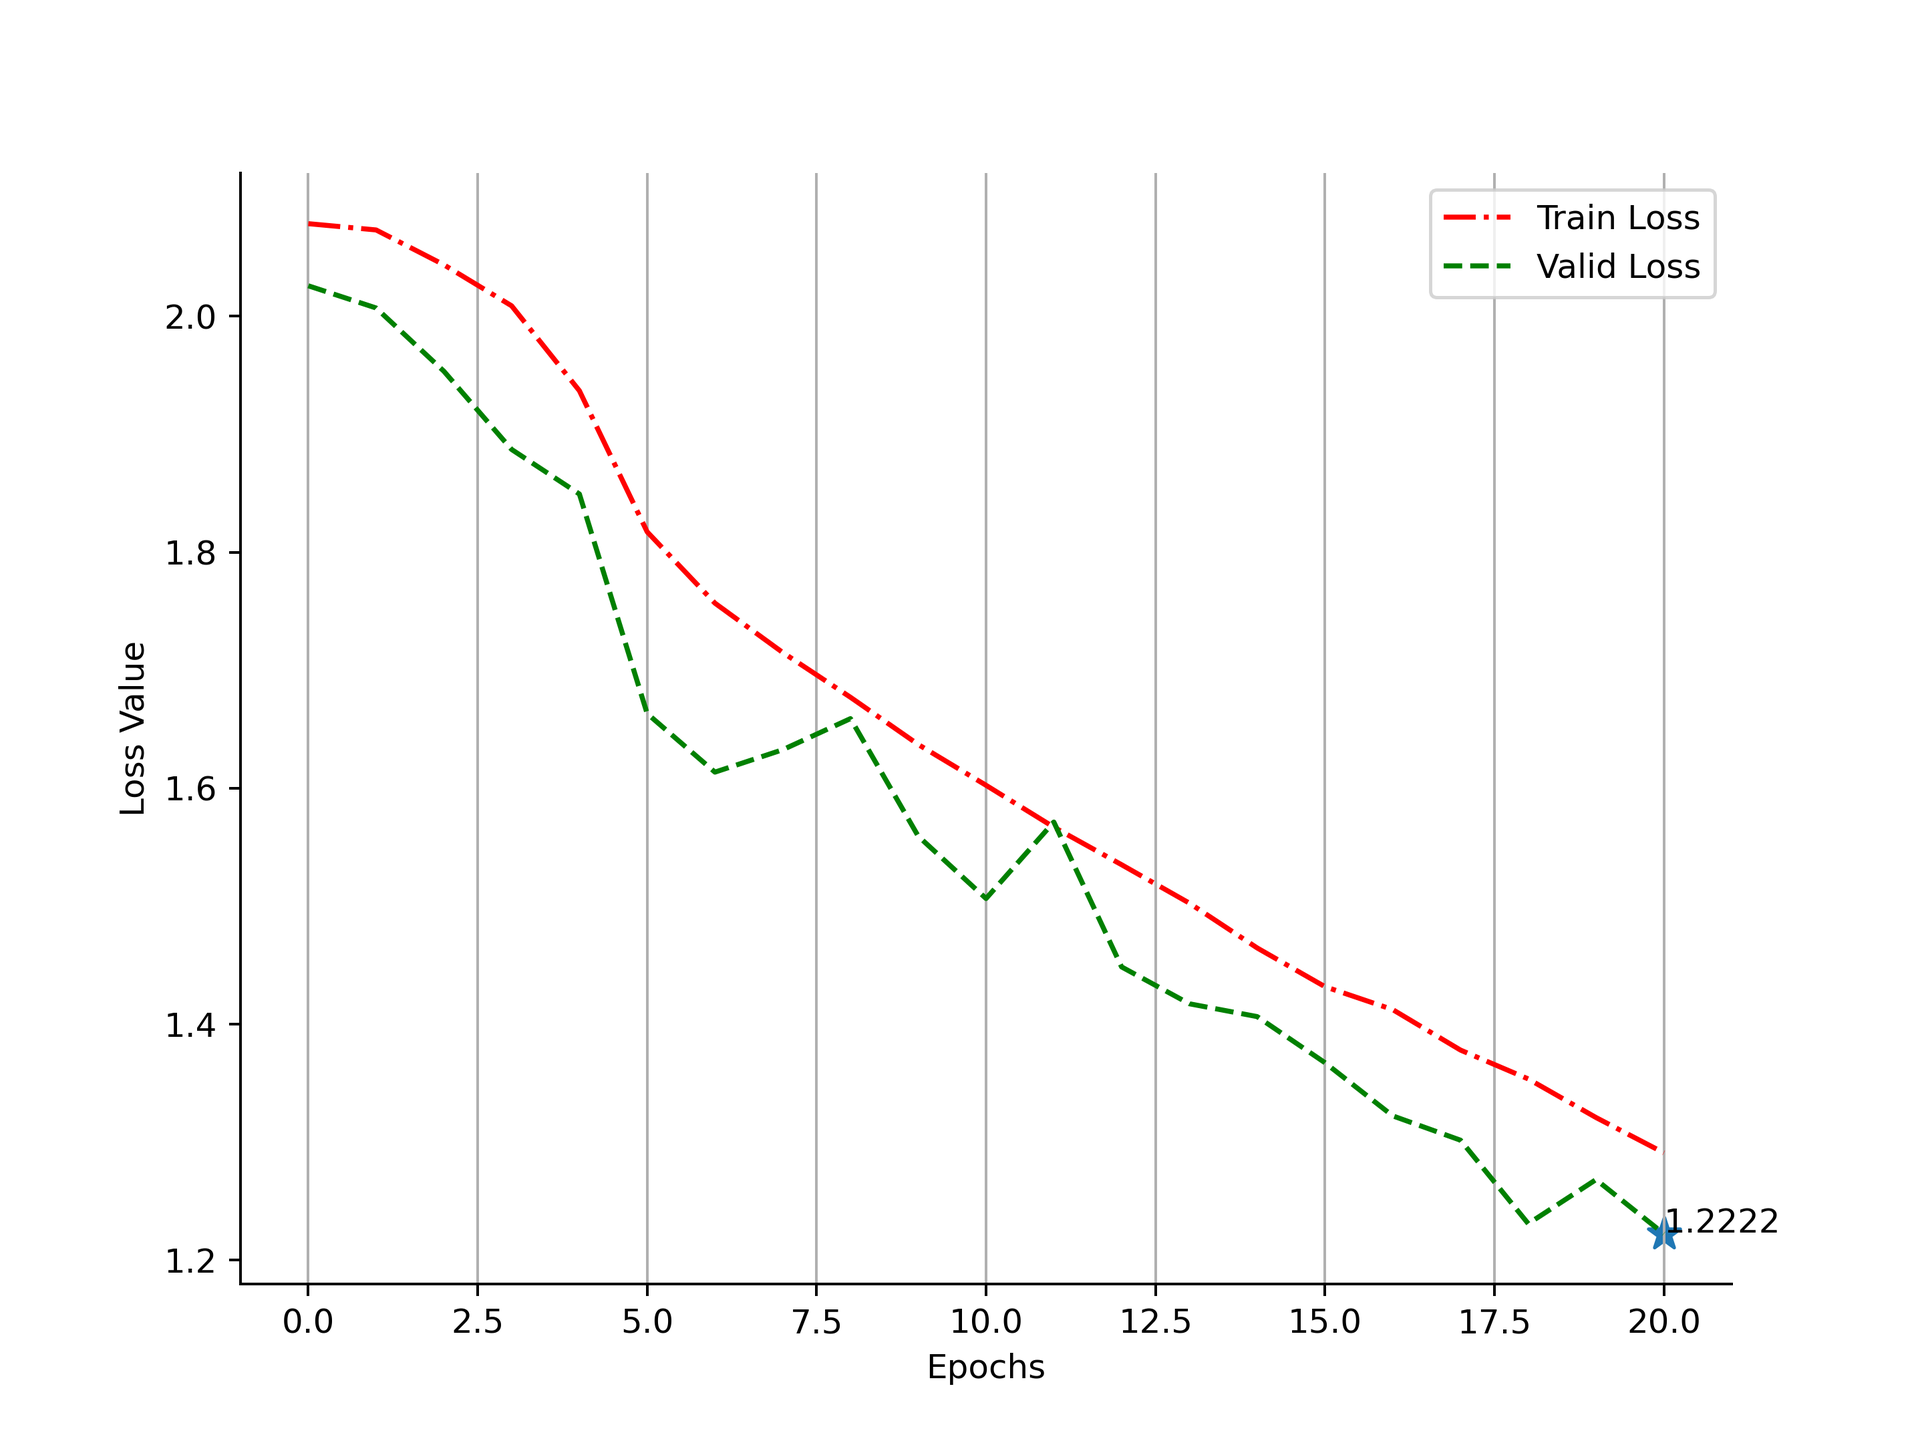
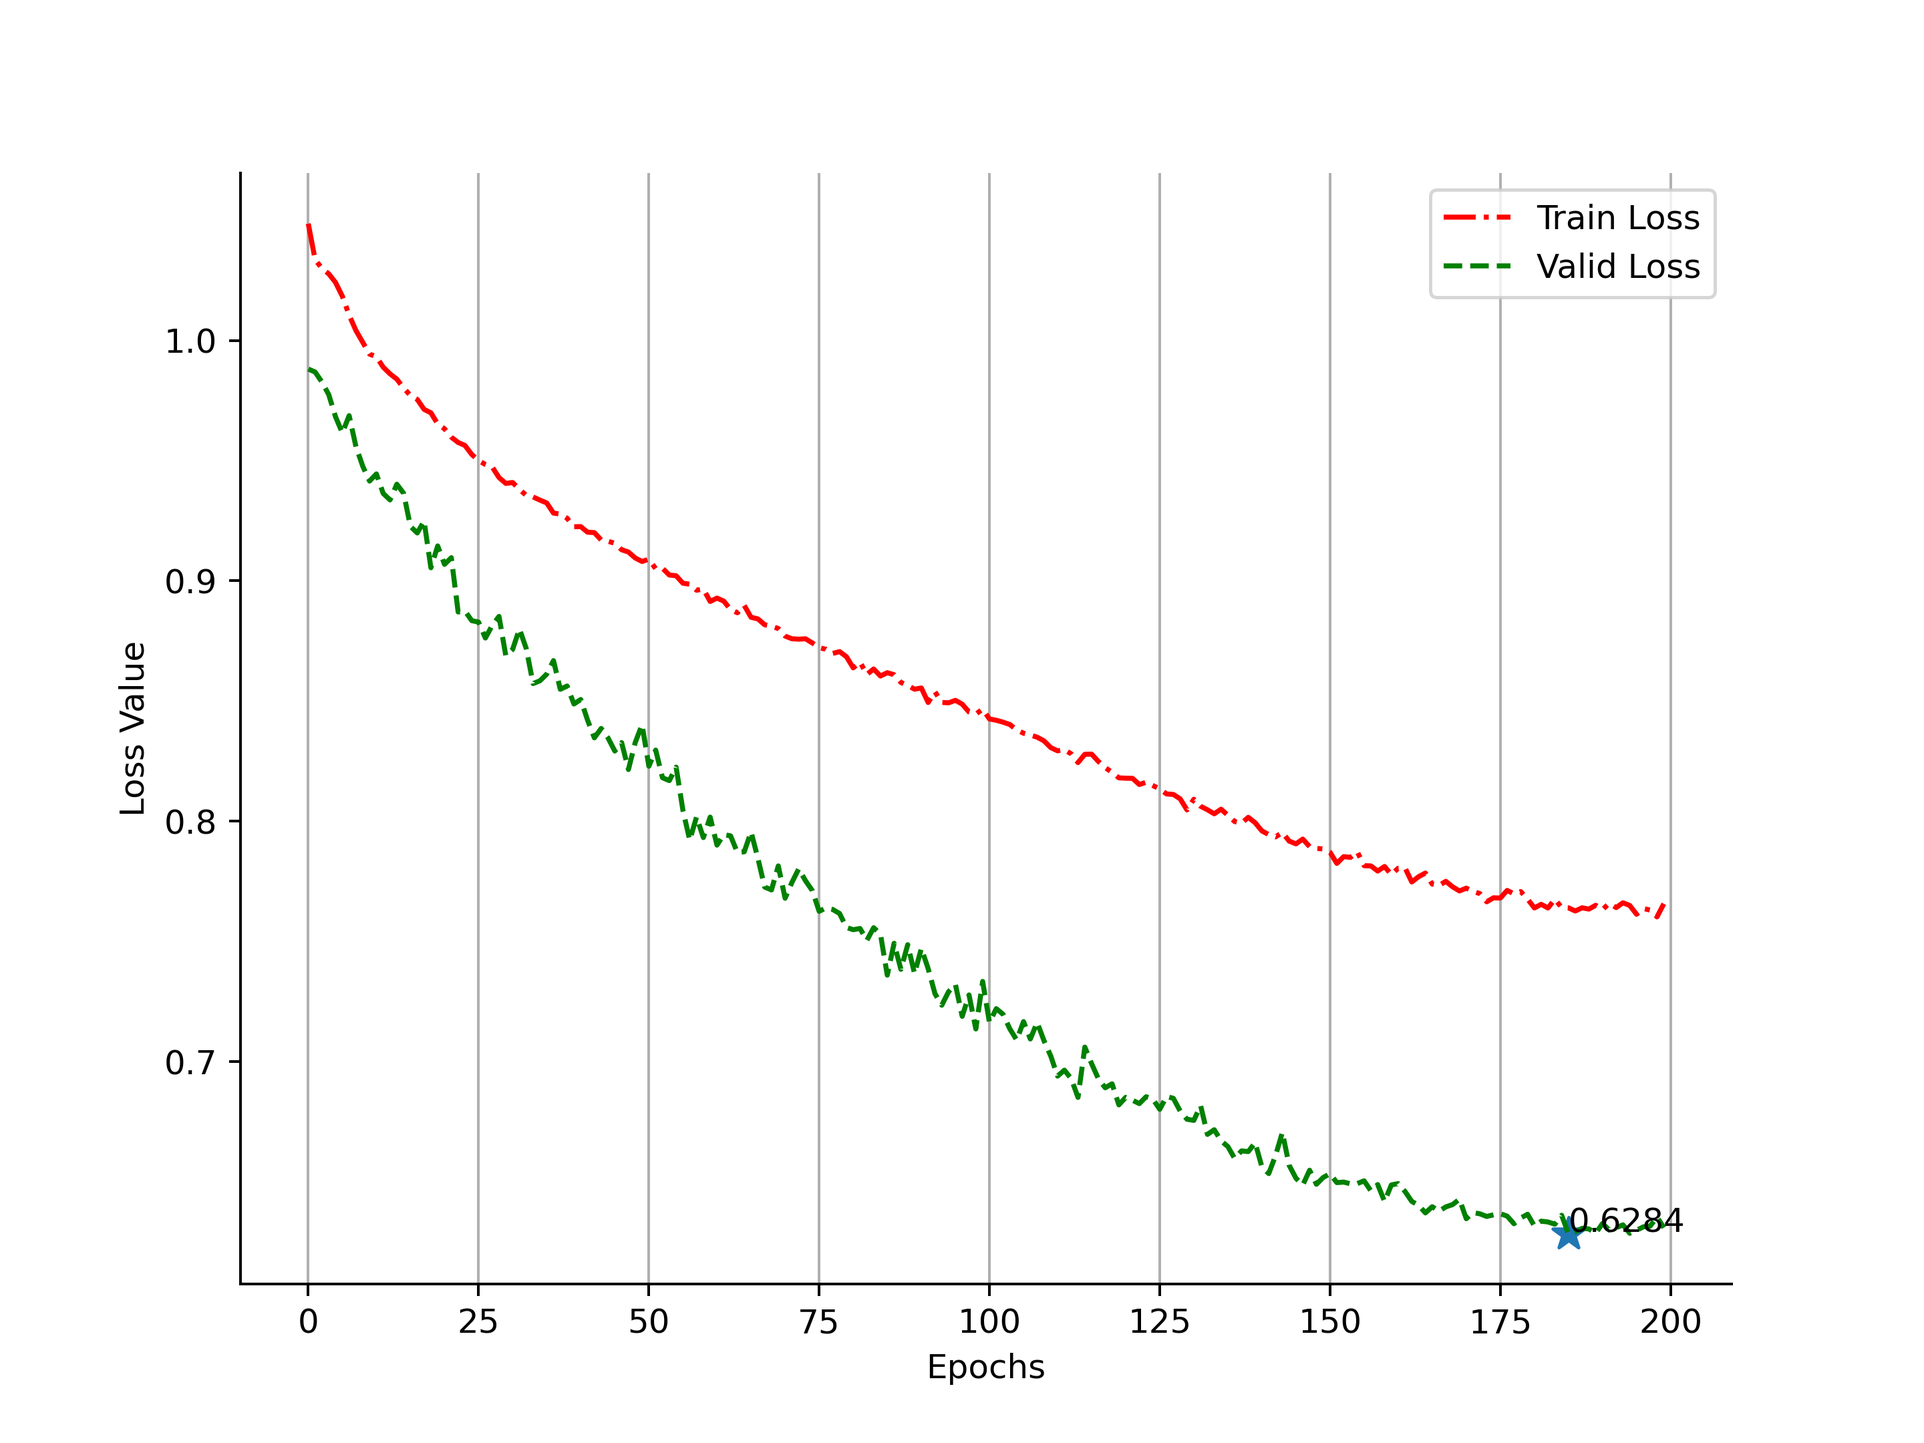
modified:   Figure/Unet_loss.png 	modified:   README.md 	modified:   src/data.py 	modified:   src/loss.py 	modified:   src/trainer.py 	modified:   src/unet.py 	modified:   train.py

diff --git a/src/trainer.py b/src/trainer.py
@@ -4,7 +4,7 @@ from tqdm import tqdm
 
 class Trainer():
     def __init__(self, model, trainloader, validloader, criterion, optimizer, lr_scheduler = None,
-                 num_epoch = 20, early_stop = 10, tolerance = 0.005, num_classes = 21, ignore_index = 255,
+                 num_epoch = 20, early_stop = 10, tolerance = 0.005, num_classes = 21,
                  device = None, on_amp = False):
         
         self.model = model.to(device)
@@ -17,7 +17,6 @@ class Trainer():
         self.early_stop = early_stop
         self.tolerance = tolerance
         self.num_classes = num_classes
-        self.ignore_index = ignore_index
         
         self.device = device
         self.on_amp = on_amp
@@ -26,14 +25,12 @@ class Trainer():
 
         self.best_loss = np.inf
         self.best_miou = 0.0
-        self.state = {"tra_loss": [], "val_loss":[], "lr": [], 
+        self.state = {"tra_loss": [], "val_loss":[], 
                       "miou": [], "class_iou": []}
 
-    
     def _epoch(self, x, y, istraining = True):
-        if self.on_amp:
-            device_type = str(self.device).split(':')[0]
-            with torch.autocast(device_type=device_type, dtype=torch.float16):
+        if self.on_amp and self.device.type == "cuda":
+            with torch.autocast(device_type="cuda", dtype=torch.float16):
                 pred = self.model(x)
                 loss = self.criterion(pred, y)
         else:
@@ -80,8 +77,7 @@ class Trainer():
                 y = y.to(self.device)
                 loss, preds = self._epoch(x, y, False)
                 running_loss += loss.item()
-                conf_mat += self.calc_conf_mat(preds, y, self.ignore_index)
-
+                conf_mat += self.calc_conf_mat(preds, y)
                 pbar.set_postfix(loss = f"{loss.item():.4f}")
             miou, class_iou = self.calc_miou(conf_mat)
             return running_loss/len(self.validloader), miou, class_iou
@@ -93,28 +89,29 @@ class Trainer():
             tra_loss = self.train()
             val_loss, miou, class_iou = self.eval()
 
-            print(f"Train loss: {tra_loss}, Valid loss: {val_loss}") 
+            print(f"Class_iou: {class_iou}")
+
+            print(f"Train loss: {tra_loss}, Valid loss: {val_loss}, mIoU: {miou}") 
             self.state["tra_loss"].append(tra_loss)
             self.state["val_loss"].append(val_loss)
             self.state["miou"].append(miou)
             self.state["class_iou"].append(class_iou)
 
-            if self.lr_scheduler is not None:
-                if hasattr(self.lr_scheduler, "reduce_on_plateau"):
-                    self.lr_scheduler.step(val_loss)
-                else:
-                    self.lr_scheduler.step()
-            current_lr = self.optimizer.param_groups[0]['lr']
-            self.state["lr"].append(current_lr)
-
             if (epoch+1) % 10 == 0:
+                print(self.optimizer.param_groups[0]["lr"])
                 self.save(f"./run/epoch_{epoch+1}_model_loss_{val_loss:.4f}.pth")
 
-            # if val_loss < self.best_loss + self.tolerance:
-            if miou > self.best_miou + self.tolerance:
+            if self.lr_scheduler is not None:
+                if hasattr(self.lr_scheduler, "_reduce_lr"):
+                    self.lr_scheduler.step(miou)
+                else:
+                    self.lr_scheduler.step()
+
+            if val_loss < self.best_loss - self.tolerance:
+            # if miou > self.best_miou + self.tolerance:
                 n_count = 0
-                # self.best_loss = val_loss
-                self.best_miou = miou
+                self.best_loss = val_loss
+                # self.best_miou = miou
                 self.save(f"./run/best_model.pth")
             else:
                 n_count += 1
@@ -122,23 +119,24 @@ class Trainer():
             if n_count == self.early_stop:
                 print(f"Epoch {epoch} early stop.")
                 break
-        print(f"Training finished. Best mIoU = {self.best_miou:.4f}")
+        # print(f"Training finished. Best mIoU = {self.best_miou:.4f}")
         return None
     
     @staticmethod
     @torch.no_grad()
-    def calc_conf_mat(pred, target, ignore_index):
-        num_classes = pred.shape[1]
-        pred = pred.argmax(dim = 1)
-        pred = pred.reshape(-1)
-        target = target.reshape(-1)
+    def calc_conf_mat(pred, target):
+        """
+        pred: N, C, H, W
+        target: N, H, W
+        """
+        num_classes = pred.shape[1] # N, C, H, W
+        pred = pred.argmax(dim = 1).reshape(-1)
+        mask = (target == 255)
+        target_valid = target.clone()
+        target_valid[mask] = 0
+        target_valid = target_valid.reshape(-1)
 
-        if ignore_index is not None:
-            mask = (target != ignore_index)
-            pred = pred[mask]
-            target = target[mask]
-        
-        idx = target*num_classes + pred
+        idx = target_valid*num_classes + pred
         count = torch.bincount(idx, minlength=num_classes*num_classes)
         return count.reshape(num_classes, num_classes)
     
@@ -147,7 +145,9 @@ class Trainer():
         tp = conf_mat.diag()
         fp = conf_mat.sum(0) - tp
         fn = conf_mat.sum(1) - tp
-
-        iou = tp / (tp + fp + fn)
-        miou = torch.nanmean(iou).item()
+        denom = tp + fp + fn
+        iou = torch.zeros_like(tp, dtype = torch.float32)
+        valid = denom > 0
+        iou = tp[valid] / denom[valid]
+        miou = iou.mean().item() if valid.any() else 0.0
         return miou, iou.cpu().numpy()

diff --git a/src/unet.py b/src/unet.py
@@ -8,14 +8,13 @@ class ConvBlock(nn.Module):
         self.layer = nn.Sequential(
             ## 对称填充, 能提取更多有效特征
             nn.Conv2d(input_channel, out_channel, 3, 1, 1, padding_mode="reflect", bias = False),
-            ## BatchNorm也是进行了偏置计算，所以上方可以关闭
+            ## BatchNorm也是进行了偏置计算，所以conv可以关闭
             nn.BatchNorm2d(out_channel),
-            # nn.Dropout2d(0.3),
-            nn.LeakyReLU(),
+            nn.ReLU(),
             nn.Conv2d(out_channel, out_channel, 3, 1, 1, padding_mode="reflect", bias = False),
             nn.BatchNorm2d(out_channel),
-            nn.Dropout2d(0.3),
-            nn.LeakyReLU(),
+            nn.ReLU(),
+            nn.Dropout2d(0.3)
         )
     
     def forward(self, x):
@@ -28,7 +27,7 @@ class DownSample(nn.Module):
         self.layer = nn.Sequential(
             nn.Conv2d(channel, channel, 3, 2, 1, padding_mode="reflect", bias = False),
             nn.BatchNorm2d(channel),
-            nn.LeakyReLU()
+            nn.ReLU()
         )
 
     def forward(self, x):
@@ -41,16 +40,21 @@ class UpSample(nn.Module):
         super().__init__()
         assert channel %2==0, "Upsample channel must be integert divid by 2."
         if nearest:
-            self.layer = nn.Sequential(
-                nn.Upsample(scale_factor=2),
-                nn.Conv2d(channel, channel//2, 1, 1),
-                )
+            self.up = nn.Upsample(scale_factor=2, mode="bilinear", align_corners=True)
+            self.conv = nn.Conv2d(channel, channel//2, 1, 1)
         else:
-            self.layer = nn.ConvTranspose2d(channel, channel//2, 2, 2)
+            self.up = nn.Identity()
+            self.conv = nn.ConvTranspose2d(channel, channel//2, 2, 2)
 
     def forward(self, x, feature_map):
-        out = self.layer(x)
-        return torch.cat((feature_map, out), dim = 1)
+        x = self.up(x)
+        diffY = feature_map.size()[2] - x.size()[2] 
+        diffX = feature_map.size()[3] - x.size()[3]
+
+        x = F.pad(x, [diffX // 2, diffX - diffX // 2,
+                      diffY // 2, diffY - diffY // 2])
+        x = self.conv(x)
+        return torch.cat((feature_map, x), dim = 1)
 
 class UnetEncoder(nn.Module):
     def __init__(self, input_channel, out_channel):

diff --git a/src/loss.py b/src/loss.py
@@ -2,38 +2,30 @@ import torch
 import torch.nn as nn
 import torch.nn.functional as F
 
-class DiceLoss(nn.Module):
-    def __init__(self, num_classes, smooth = 1e-5, ignore_index = None):
+class DiceLoss(nn.Module):      
+    def __init__(self, num_classes, smooth = 1e-5):
         super().__init__()
         self.num_classes = num_classes
         self.smooth = smooth
-        self.ignore_index = ignore_index
 
     def forward(self, pred, target):
         pred = F.softmax(pred, dim = 1)
-        if self.ignore_index is not None:
-            mask = (target != self.ignore_index).float()
-            target = target.clone()
-            target[target == self.ignore_index] = 0
-        else:
-            mask = torch.ones_like(target).float()
-        target_one_hot = F.one_hot(target, num_classes=self.num_classes)
-        target_one_hot = target_one_hot.permute(0, 3, 1, 2).float()  # (B, C, H, W)
-        
-        mask = mask.unsqueeze(1)
-        target_one_hot = target_one_hot * mask
-        pred = pred * mask
+        mask = (target != 255)
+        target_valid = target.clone()
+        target_valid[~mask] = 0
+        target_one_hot = F.one_hot(target_valid, num_classes=self.num_classes).permute(0, 3, 1, 2).float()
 
-        intersection = (pred * target_one_hot).sum(dim = (0, 2, 3))
+        intersection = (pred * target_one_hot* mask.unsqueeze(1)).sum(dim = (0, 2, 3))
         union = pred.sum(dim=(0, 2, 3)) + target_one_hot.sum(dim=(0, 2, 3))
+        union = torch.where(union ==0, intersection, union)
         dice_loss = (2. * intersection + self.smooth)/(union + self.smooth)
         return 1 - dice_loss.mean()
 
 class CEDiceLoss(nn.Module):
-    def __init__(self, num_classes, ce_weight = 0.5, ignore_index = None):
+    def __init__(self, num_classes, ce_weight = 0.5):
         super().__init__()
-        self.ce_loss = nn.CrossEntropyLoss(ignore_index= ignore_index)
-        self.dice_loss = DiceLoss(num_classes, ignore_index=ignore_index)
+        self.ce_loss = nn.CrossEntropyLoss(ignore_index=255)
+        self.dice_loss = DiceLoss(num_classes)
         self.ce_weight = ce_weight
         self.dice_weight = 1 - ce_weight
 

diff --git a/train.py b/train.py
@@ -6,26 +6,25 @@ from src.data import UnetDataset
 from src.trainer import Trainer
 from utils.utils import ROOT
 from utils.plot import plot_loss
-from transformers import get_cosine_schedule_with_warmup
+from torch.optim.lr_scheduler import ReduceLROnPlateau, CosineAnnealingLR
 
 def main():
     traindataset = UnetDataset(ROOT/"data", "train")
     valdataset = UnetDataset(ROOT/"data", "val")
-    trainloader = DataLoader(traindataset, batch_size = 32, num_workers=2, shuffle=True, pin_memory = True, persistent_workers=True, prefetch_factor=2)
+    trainloader = DataLoader(traindataset, batch_size = 16, num_workers=2, shuffle=True, pin_memory = True, persistent_workers=True, prefetch_factor=2)
     valloader = DataLoader(valdataset, batch_size = 32, num_workers=2, shuffle=False, pin_memory = True, persistent_workers=True, prefetch_factor=2)
 
-    num_epoch = 100
+    num_epoch = 200
     early_stop = 15
     on_amp = True
     device = torch.device("cuda" if torch.cuda.is_available() else "cpu")
     unet = UNet(3, 21)
-    criterion = CEDiceLoss(num_classes=21, ignore_index=255)
-    optimizer = torch.optim.Adam(unet.parameters(), lr = 1e-4, weight_decay=3e-5)
-    lr_scheduler = get_cosine_schedule_with_warmup(
-        optimizer = optimizer,
-        num_warmup_steps= int(num_epoch*0.2),
-        num_training_steps=len(trainloader)*num_epoch
-    )
+    criterion = CEDiceLoss(num_classes=21, ce_weight=0.1)
+    # optimizer = torch.optim.Adam(unet.parameters(), lr = 1e-3, weight_decay=3e-4)
+    optimizer = torch.optim.SGD(unet.parameters(), lr = 1e-2, weight_decay=3e-4, momentum=0.9)
+
+    # lr_scheduler = ReduceLROnPlateau(optimizer, 'max', patience=5)
+    lr_scheduler = CosineAnnealingLR(optimizer, T_max=num_epoch)
     trainer = Trainer(unet, trainloader, valloader, criterion, optimizer, lr_scheduler, num_epoch, 
                       early_stop=early_stop, device = device, on_amp=on_amp)
     trainer.run()

diff --git a/src/data.py b/src/data.py
@@ -13,26 +13,21 @@
 
 import os
 import albumentations as A
-import cv2
 from torch.utils.data import Dataset
 from utils.utils import read_image
 
 MAX_HEIGHT, MAX_WIDTH = 256, 256
 train_trans = A.Compose([
-    A.Resize(288, 288),
-    A.RandomCrop(MAX_HEIGHT, MAX_WIDTH),
+    A.RandomResizedCrop((MAX_HEIGHT, MAX_WIDTH)),
+    # A.Resize(MAX_HEIGHT, MAX_WIDTH),
+    A.ColorJitter(),
     A.HorizontalFlip(p = 0.5),
-    A.RandomRotate90(p = 0.1),
-    A.ColorJitter(brightness=0.2, contrast=0.2, saturation=0.2, hue=0.1, p=0.2),
-    A.RandomBrightnessContrast(p=0.1),
-    A.GaussNoise(p=0.1),
-    A.Normalize(mean=[0.485, 0.456, 0.406], std=[0.229, 0.224, 0.225], max_pixel_value=255),
+    A.GaussNoise(p = 0.2),
     A.ToTensorV2()
 ])
 
 val_trans = A.Compose([
-    A.Resize(MAX_HEIGHT, MAX_WIDTH, interpolation=cv2.INTER_NEAREST),
-    A.Normalize(mean=[0.485, 0.456, 0.406], std=[0.229, 0.224, 0.225], max_pixel_value=255),
+    A.Resize(MAX_HEIGHT, MAX_WIDTH),
     A.ToTensorV2()
 ])
 
@@ -54,6 +49,7 @@ class UnetDataset(Dataset):
         image, segment_img = read_image(raw_path, segment_path)
         augmented = self.transformer(image = image, mask = segment_img)
         img, mask = augmented["image"], augmented["mask"]
+        img = img / 255
         mask = mask.long()
         return img, mask
     

diff --git a/README.md b/README.md
@@ -1,9 +1,13 @@
 # U-Net
 复现[U-Net论文](https://arxiv.org/html/1505.04597v1#S1)，强化记忆
+衍生品复合架构：unet+resnet
+进阶版本：unet++、rnn-unet
 
 ## 具体细节
+- 使用SBD增强数据集，github以及kaggle上都能搜到，原增强数据集提供者的链接已经下架了
 - 为方便进行多分类的segment任务将输出层改为可选，将sigmoid改为softmax
 - 原文中的下采样方法从图示标注上来看是maxpool，替换为3X3的Conv2d，步长设置为2，padding为1。相对于最大池化，使用卷积进行下采样能提取更多的细节
+- 上采样中，原文未提及图像对齐
 - 原文中的卷积核采用reflect方式进行padding的，使得一个感受野获取更多的信息
 - 架构上面采用了Encoder-Decoder模式
 - 作为2015年的文章，在架构上采用了类似Resnet的残差连接方式（上采样中的拼接，跳跃链接）
@@ -11,9 +15,25 @@
 - 转置卷积核使用2x2，能够避免伪影，栅格出现
 - Unet在少量的样本训练上就能取得不错的效果，框架简单易懂，缺点是相对于Yolo，VGG，Resnet等网络数据的标注很痛苦，但是相对于Yolo框架来说能够很好的计算识别区域的面积方便后续的精确量化
 
-踩坑记录：
-albumentationsx版本不兼容
+## 踩坑记录：
+### 关于环境搭建(Data Loading)
+- albumentationsx版本不兼容
+- 安装albumentations 2.0.8版本，对应默认albucore 0.0.16中缺失`MONO_CHANNEL_DIMENSIONS`，查找albucore github issue页面，应该安装0.0.16 ~ 0.0.28及之前的几个版本
+- segmentation图像读取不要使用Opencv，只有Pillow能正确读取图像中的标签分类，opencv会将其转换成调色板上的数值失去原本的标签
+- 数据增强部分不要让模型开始就太“为难”，增强强度不要太高(考虑现实场景也不会有特别严苛条件下拍摄的图片)
+### 关于损失函数
+- CrossEntroy + Dice 组合损失函数不要设置分配系数为0.5，会导致模型总是在学习图片中的背景，把所有类别预测为背景，跑出来的Loss是假的(miou极低)，让模型专注于分类Dice。可以前期使用0.2或者0.1，或者干脆只用Dice，后期查看各个分类的iou有不错的值之后在该也行。交叉熵在乎的是整体，而本身图片就大部分是背景（也就是背景与等于整体），所以交叉熵权重过高会诱导模型往背景方向学习。
+### 关于训练
+- lr_scheduler策略试过warming up+余弦退火、ReduceLROnPlateau，对应优化器使用Adam，效果都不太好，在50~100epoch时学习率就很低了
+- 显存不太够，开启了amp，batch_size设置得也很小。
 
-安装albumentations 2.0.8版本，对应默认albucore 0.0.16中缺失`MONO_CHANNEL_DIMENSIONS`，查找albucore github issue页面，应该安装0.0.16 ~ 0.0.28及之前的几个版本
-
-segmentation图像读取不要使用Opencv，只有Pillow能正确读取图像中的标签分类，opencv会将其转换成调色板上的数值失去原本的标签
+```shell
+Unet best:
+Epoch 186
+Class_iou: 
+[0.8492257, 0.5550232,  0.19929767, 0.4217427,  0.01742434, 
+0., 0.7130185,  0.6331393, 0.52635103, 0.14414215,
+0.00331658, 0.27010915, 0.4420583,  0.33303532, 0.44052273, 
+0.57888395, 0., 0.37612396, 0.28619772, 0.57614607, 0.45614052]
+Train loss: 0.7639775494074174, Valid loss: 0.6284025855686354, mIoU: 0.372471421957016
+```
